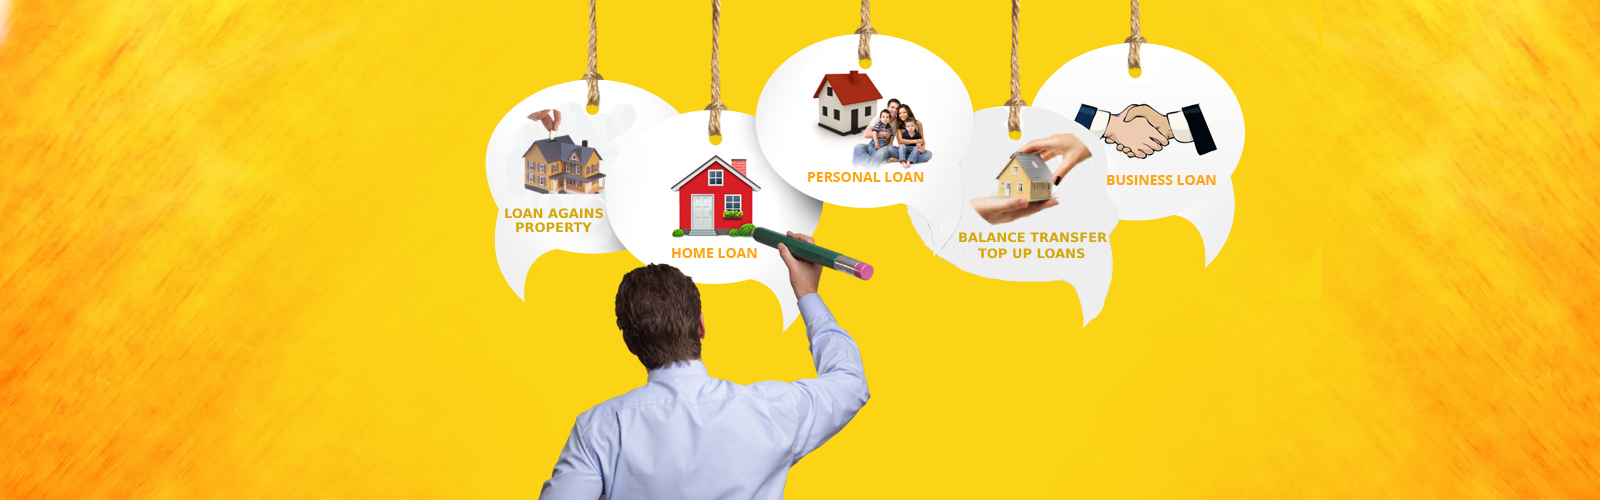
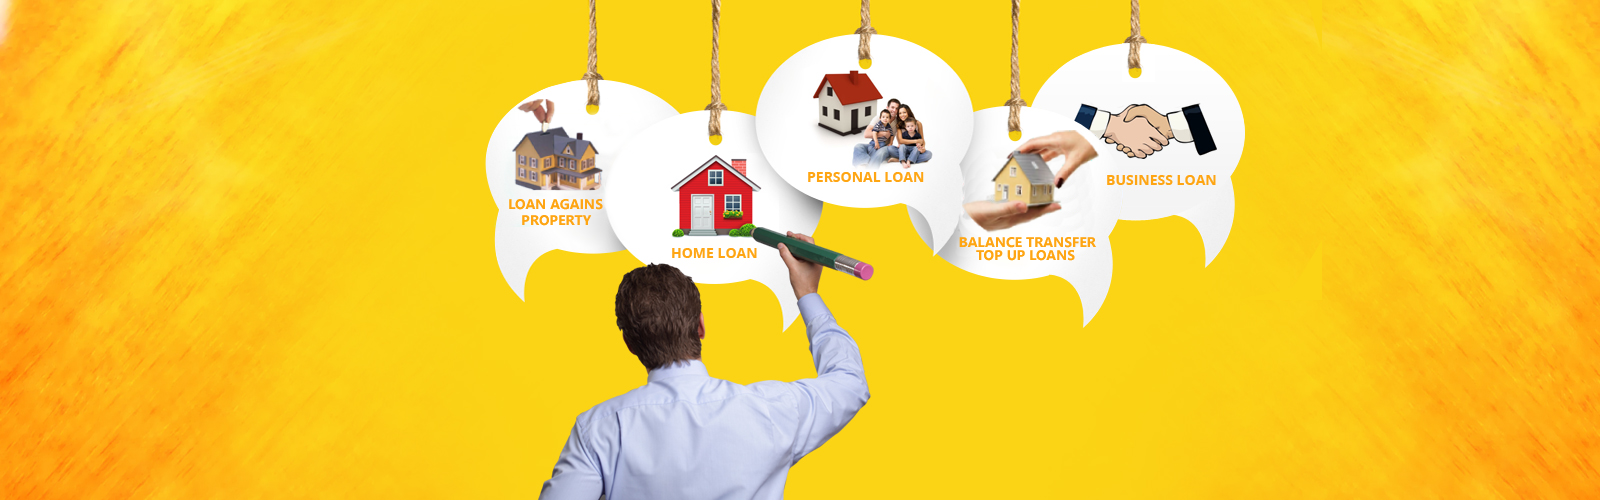
Build the work

Changed region(s): [[0.5625, 0.24, 0.6875, 0.57], [0.3125, 0.18, 0.375, 0.48]]

diff --git a/src/app/DemoBankProjectng4/components/products/all-loans/all-loans.component.html b/src/app/DemoBankProjectng4/components/products/all-loans/all-loans.component.html
@@ -1,22 +1,25 @@
-<div class="container all-loans">
-    <div class="col-lg-12 col-md-12 padding-none">
-        <h1>All Loans</h1>
+<div class="container-fluid all-loans padding-none">
+    <div class="col-lg-12 col-md-12 padding-none margin-bottom-10">
+        <img src="assets/images/all-loans-1600x400.png" class="img-responsive">
     </div>
-    <div class="col-lg-12 col-md-12 padding-none">
-        <tabset>
-            <tab *ngFor="let allLoans of allLoansMetadata; let i=index" [heading]="allLoans.title">
-                <div class="col-lg-3 col-md-3 content-panel padding-left-none" *ngFor="let subLoans of allLoans.subLoansList">
-                    <div class="thumbnail">
-                        <img src="{{subLoans.imgPath}}">
-                        <div class="caption">
-                            <h4>{{subLoans.title}}</h4>
-                            <a routerLink="{{subLoans.routeUrl}}" class="col-md-12 btn btn-info btn-xs btn-custom margin-bottom-10" role="button">Know More</a>
-                            <a routerLink="{{subLoans.createRouteUrl}}" [queryParams]="{ loanType: subLoans.id, empType: allLoans.id  }" queryParamsHandling="merge" class="col-md-6 btn btn-info btn-xs btn-custom" role="button">Create</a>
-                            <a routerLink="{{subLoans.updateRouteUrl}}" class="col-md-6 btn btn-info btn-xs btn-custom" role="button">Update</a>
+    <div class="container">
+        <div class="col-lg-12 col-md-12 padding-none">
+            <h1>All Loans</h1>
+            <tabset>
+                <tab *ngFor="let allLoans of allLoansMetadata; let i=index" [heading]="allLoans.title">
+                    <div class="col-lg-3 col-md-3 content-panel padding-left-none" *ngFor="let subLoans of allLoans.subLoansList">
+                        <div class="thumbnail">
+                            <img src="{{subLoans.imgPath}}">
+                            <div class="caption">
+                                <h4>{{subLoans.title}}</h4>
+                                <a routerLink="{{subLoans.routeUrl}}" class="col-md-12 btn btn-info btn-xs btn-custom margin-bottom-10" role="button">Know More</a>
+                                <a routerLink="{{subLoans.createRouteUrl}}" [queryParams]="{ loanType: subLoans.id, empType: allLoans.id  }" queryParamsHandling="merge" class="col-md-6 btn btn-info btn-xs btn-custom" role="button">Create</a>
+                                <a routerLink="{{subLoans.updateRouteUrl}}" class="col-md-6 btn btn-info btn-xs btn-custom" role="button">Update</a>
+                            </div>
                         </div>
                     </div>
-                </div>
-            </tab>
-        </tabset>
+                </tab>
+            </tabset>
+        </div>
     </div>
 </div>

diff --git a/src/app/DemoBankProjectng4/components/products/personal-loan/personal-loan.component.html b/src/app/DemoBankProjectng4/components/products/personal-loan/personal-loan.component.html
@@ -1,14 +1,19 @@
-<div class="container personal-loan">
-    <div class="col-lg-12 col-md-12 padding-none content-section">
-        <h1>Personal Loans</h1>
-        <p>Planning a grand wedding? Selecting a school for your child? or Waiting to book that exotic vacation you have been planning? We can help you with our customised personal loan offering. Let us be a part of your journey and help you to achieve your
-            dreams & goals.</p>
-        <button type="submit" class="apply-btn pull-right" (click)="apply()">Apply
-          <i class="fa fa-thumbs-up" aria-hidden="true"></i>
-      </button>
-        <a [routerLink]="['/products','personal-loans','personal-loan-create-application']" [queryParams]="{ loanType: '1'  }" class="btn apply-btn" role="button">Create</a>
-        <a [routerLink]="['/products','personal-loans','personal-loan-update-application']" class="btn apply-btn" role="button">Update</a>
+<div class="container-fluid personal-loan padding-none">
+    <div class="col-lg-12 col-md-12 padding-none margin-bottom-10">
+        <img src="assets/images/personal-loan-1600x400.png" class="img-responsive">
     </div>
-    <app-features-details-wizard></app-features-details-wizard>
+    <div class="container">
+        <div class="col-lg-12 col-md-12 padding-none content-section">
+            <h1>Personal Loans</h1>
+            <p>Planning a grand wedding? Selecting a school for your child? or Waiting to book that exotic vacation you have been planning? We can help you with our customised personal loan offering. Let us be a part of your journey and help you to achieve
+                your dreams & goals.</p>
+            <button type="submit" class="apply-btn pull-right" (click)="apply()">Apply
+              <i class="fa fa-thumbs-up" aria-hidden="true"></i>
+          </button>
+            <a [routerLink]="['/products','personal-loans','personal-loan-create-application']" [queryParams]="{ loanType: '1'  }" class="btn apply-btn" role="button">Create</a>
+            <a [routerLink]="['/products','personal-loans','personal-loan-update-application']" class="btn apply-btn" role="button">Update</a>
+        </div>
+        <app-features-details-wizard></app-features-details-wizard>
+    </div>
 </div>
 <app-modal #applyModal (modalOutput)="refreshApply($event)"></app-modal>

diff --git a/src/app/DemoBankProjectng4/components/products/all-loans/all-loans.component.scss b/src/app/DemoBankProjectng4/components/products/all-loans/all-loans.component.scss
@@ -34,14 +34,6 @@
             }
         }
     }
-    h1 {
-        font-size: 3em;
-        line-height: 3;
-        font-weight: 200;
-        font-style: italic;
-        text-transform: capitalize;
-        color: #000000;
-    }
     p {
         font-size: 1.2em;
         font-weight: 200;

diff --git a/src/styles.scss b/src/styles.scss
@@ -64,7 +64,7 @@ body {
 
 h1 {
     font-size: 3em;
-    line-height: 3;
+    line-height: 2;
     font-weight: 200;
     font-style: italic;
     text-transform: capitalize;
